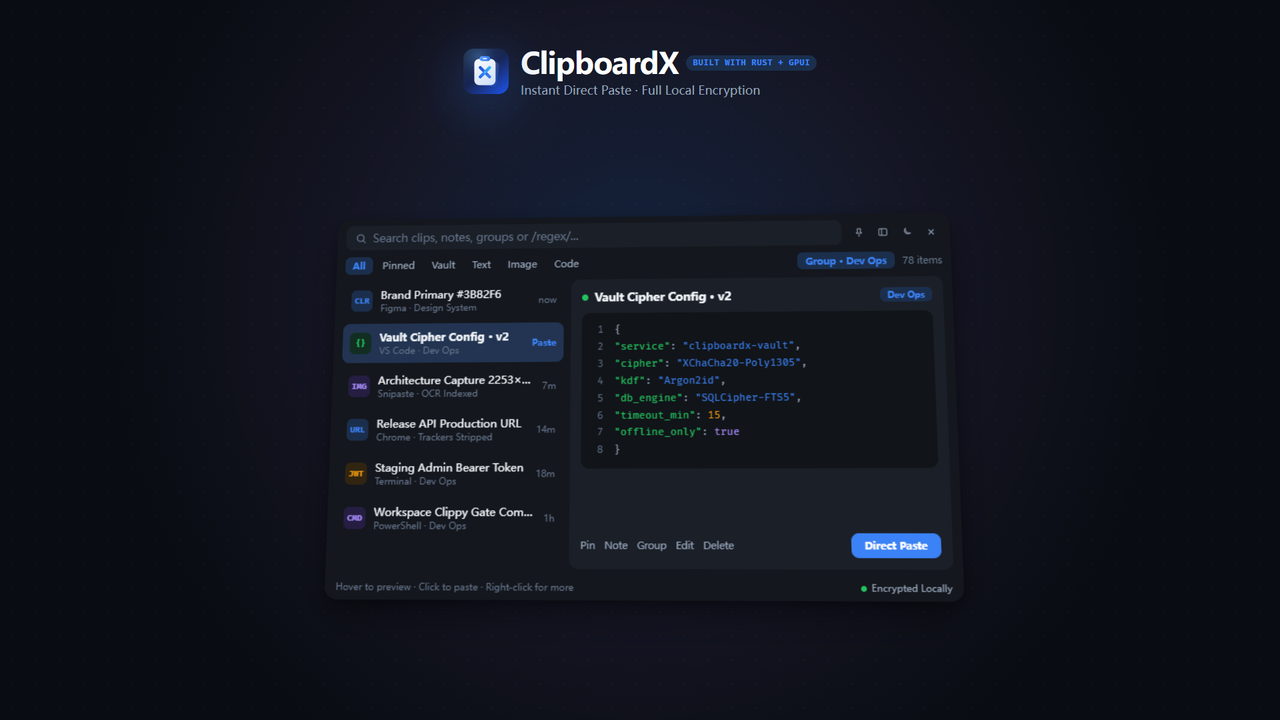
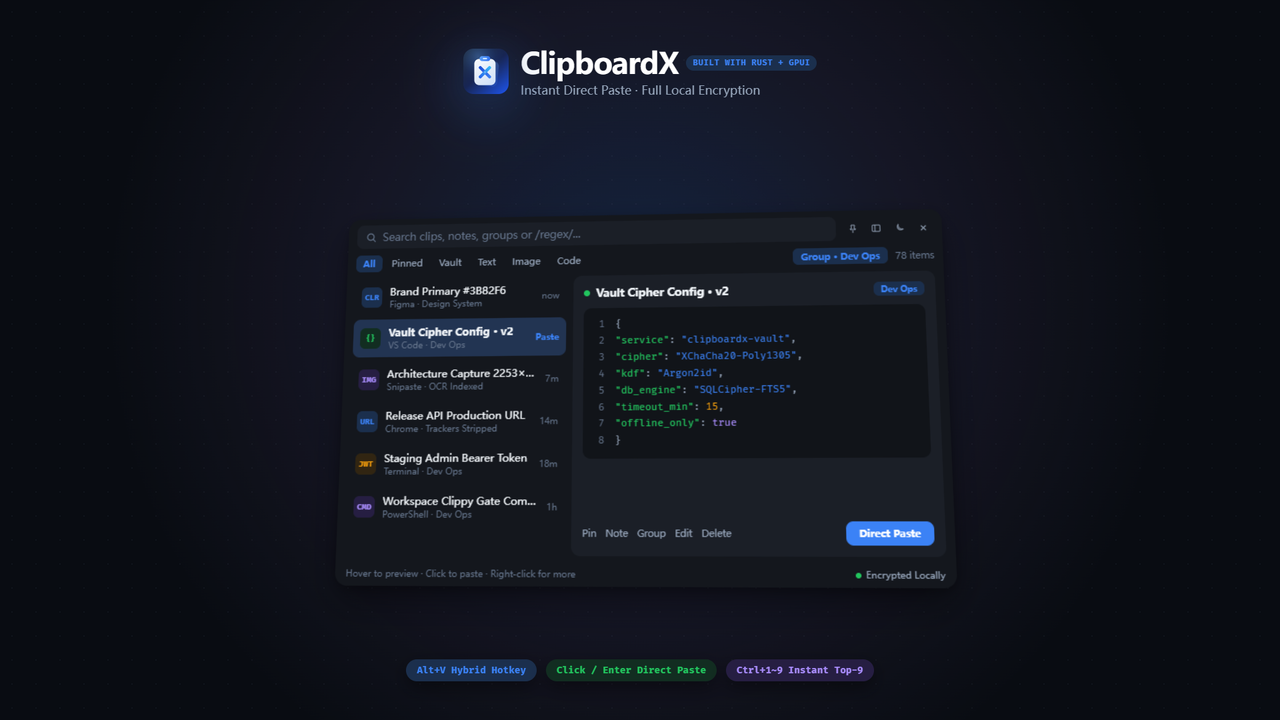
docs(readme): highlight dock-to-capsule workflow, smart hotkeys and refreshed promo reels

diff --git a/README.zh-CN.md b/README.zh-CN.md
@@ -23,6 +23,48 @@
 
 ---
 
+## 为什么用起来顺手？
+
+### 1. 悬浮窗 ↔ 贴边光感玻璃胶囊，招之即来、挥之即收
+- **失焦自动缩成迷你胶囊**：切回编辑器或浏览器继续工作时，悬浮窗默认不会生硬消失，而是柔和收拢为停靠在屏幕边缘的 `38×58` **光感玻璃磨砂胶囊**，不挡视野、随时待命（也可在设置中切换为失焦隐藏到系统托盘）。
+- **新复制流光脉冲反馈**：后台按下 `Ctrl + C` 复制内容时，贴边胶囊会自动泛起一圈柔和的蓝绿流光脉冲，无弹窗打扰却清晰确认“已加密入库”。
+- **悬停预热 + 盲拖吸边**：鼠标靠近胶囊即刻提亮微晕并一键唤回主面板；按住胶囊即可上下盲拖并自动吸附屏幕边缘，想停哪就停哪。
+- **双形态 `180ms` 弹性伸缩**：按下 `Ctrl + \`，面板在 `680×420` 完整双栏预览与 `328×420` 简洁单栏之间丝滑伸缩，并自动记忆你偏好的展开态。
+
+### 2. 智能双模热键 & 无感直贴流
+- **短按常驻 · 长按即看即走（Smart Hybrid，默认）**：
+  - **短按 `< 260ms`**：按一下 `Alt + V`（macOS 为 `Cmd + Shift + V`）呼出面板常驻，适合慢慢翻找、管理分组、看图或提取 OCR 文字。
+  - **长按 `≥ 260ms`**：按住热键呼出 → 选好条目松手即自动粘贴并收起，行云流水零停顿（同样支持切换为纯 Toggle 或纯按住预览模式）。
+- **真·一步直贴原窗口**：鼠标悬停即可在右侧预览全文、代码、色值或图片，**左键单击（或按 `Enter`）** 立即写回剪贴板并自动恢复原焦点窗口完成粘贴，免去“点击复制 → 切窗 → `Ctrl + V`”的三步繁琐。
+- **盲贴前 9 条**：面板呼出后直接按 `Ctrl + 1` ~ `Ctrl + 9`，瞬间把最近第 1~9 条内容直贴到光标处。
+
+### 3. 一行搜索框搞定多维毫秒定位
+- **中文拼音直搜**：无需切输入法，直接输入拼音首字母或全拼（如 `seka`、`mima`、`kaifa`），毫秒级命中中文历史、备注与分组。
+- **结构化前缀与正则**：支持 `type:image`、`type:color`、`type:code`、`app:chrome` 等前缀精准筛选，也支持 `/pattern/` 正则检索代码片段与日志。
+- **截图文字自动可搜**：系统原生离线 OCR（WinRT / Vision）与可选离线插件会自动把截图中的文字写入加密 FTS5 索引，搜图就像搜文字一样快。
+
+### 4. 加密账号保险箱 · 一键连填自动复原
+- **双库物理隔离加密**：普通剪贴历史（`history.db`）与敏感账号凭证（`vault.db`）独立存储，采用 **SQLCipher 全库加密 + 系统密钥环信封加密 + `XChaCha20-Poly1305` Blob 加密**，100% 纯本地零遥测。
+- **一键顺序连填并还原剪贴板**：在账号页按 `Enter`（或点击条目），自动模拟 `账号 → Tab → 密码 → Enter` 顺序填入登录框；完成后自动擦除临时密码并**还原你原本的剪贴板内容**。
+- **主动隐私门禁**：自动忽略系统机密剪贴板标记，内置密码管理器黑名单（默认忽略 `1Password`、`Bitwarden`、`KeePassXC`、`Enpass`、`Keychain Access`），随时按 `Ctrl + Alt + P` 临时暂停监听。
+
+---
+
+## 快捷键速查
+
+| 快捷键 | 作用域 | 功能说明 |
+| :--- | :--- | :--- |
+| `Alt + V`（macOS：`Cmd + Shift + V`） | 全局 | 智能双模呼出 / 收起主面板（短按常驻，长按松手即收） |
+| `Ctrl + \` | 全局 / 面板内 | `180ms` 弹性切换 `680×420` 完整双栏 ↔ `328×420` 简洁单栏 |
+| `Ctrl + Alt + P` | 全局 | 一键暂停 / 恢复剪贴板监听（临时复制敏感内容不入库） |
+| `Enter` / 左键单击 | 面板内 | 直接粘贴到原焦点窗口（保险箱页为**一键连填**） |
+| `Shift + Enter` | 面板内 | 纯文本无格式粘贴（保险箱页为仅填入密码） |
+| `Ctrl + 1` ~ `Ctrl + 9` | 面板内 | 极速直贴列表中第 1 ~ 9 条记录 |
+| `↑` / `↓` | 面板内 | 上下切换选中条目并实时更新右侧预览卡片 |
+| `Esc` | 面板内 | 先清空搜索关键词，再次按下收起面板（回到贴边胶囊或托盘） |
+
+---
+
 ## 界面预览
 
 | 双栏主面板（Night 暗夜） | 光感玻璃停靠胶囊（38×58） |
@@ -36,18 +78,6 @@
 | 图片预览与离线 OCR 文字识别 | 双库加密账号保险箱与一键连填 |
 | :---: | :---: |
 | ![图片与离线 OCR](assets/screenshots/zh-ocr-light.png) | ![账号保险箱与一键连填](assets/screenshots/zh-vault-night.png) |
-
----
-
-## 核心特性
-
-- **零描边色阶美学**：`680×420` 完整双栏与 `328×420` 简洁单栏悬浮窗，`180ms` 弹性侧边收缩，支持 `38×58` 光感玻璃磨砂停靠胶囊与 Night / Light 双模式主题，全界面 `0px` 描边。
-- **全链路本地加密**：普通历史 `history.db` 与账号保险箱 `vault.db` 双库隔离，采用 SQLCipher 全库（含 FTS5）加密、系统密钥环信封加密与 CAS `XChaCha20-Poly1305` Blob 加密。
-- **智能内容解析与预览**：自动识别代码、JSON、JWT、色值（含 WCAG 对比度与 OKLCH）、URL（支持一键去除追踪参数）、时间戳与图片，并提供专属右侧预览卡片。
-- **多维毫秒级检索**：融合 FTS5 全文检索、中文拼音首字母/全拼、模糊匹配、正则（`/pattern/`）及前缀过滤（`type:color`、`type:image`、`app:editor`）。
-- **账号保险箱与一键连填**：独立口令保护的账号凭证库，内置密码强度评估、CSPRNG 强密码生成，以及支持完成后自动擦除并还原原剪贴板的一键连填（`账号 → Tab → 密码 → Enter`）。
-- **离线 OCR 文字识别**：支持系统原生 OCR（WinRT / Vision）与按需下载或本地导入离线插件，自动将截图文字写入加密索引。
-- **零后台遥测**：100% 纯本地运行，仅在手动或开启更新检查时校验 Ed25519 签名清单。
 
 ---
 

diff --git a/README.md b/README.md
@@ -23,6 +23,47 @@ English | [简体中文](README.zh-CN.md)
 
 ---
 
+## Designed for Effortless Daily Flow
+
+### 1. Floating Panel ↔ Liquid Frosted Dock Capsule
+- **Auto-Collapse on Blur**: When you switch back to your editor or browser, the floating panel doesn't abruptly vanish—by default it glides into a `38×58` **liquid frosted glass capsule** docked cleanly to your screen edge (or optionally auto-hides to the system tray).
+- **Subtle Capture Pulse**: Every time you press `Ctrl/Cmd + C` in the background, the edge capsule emits a soft luminous pulse to confirm your clip is encrypted and saved without interrupting your focus.
+- **Hover Preheat & Blind-Drag Snapping**: Hover to glow and pop the panel right back open, or grab and drag the capsule vertically along the screen edge to park it anywhere out of your way.
+- **`180ms` Adaptive Dual / Slim Morph**: Tap `Ctrl + \` to smoothly morph between the `680×420` dual-pane preview and the `328×420` compact single-pane list—with automatic state memory.
+
+### 2. Smart Hybrid Hotkey & Zero-Friction Direct Paste
+- **Tap to Toggle · Hold to Peek (Smart Hybrid, Default)**:
+  - **Tap `< 260ms`**: Press `Alt + V` (`Cmd + Shift + V` on macOS) to keep the panel open while browsing, organizing groups, or inspecting images/OCR.
+  - **Hold `≥ 260ms`**: Hold the hotkey to peek, pick an item, and release to paste & dismiss in one fluid gesture (pure Toggle and pure Hold-to-Peek modes are also available).
+- **One-Click Direct Paste**: Hover to inspect rich previews (code, JSON, JWT, WCAG color swatches, cleaned URLs, images & OCR), then **single-click or press `Enter`** to restore focus to your previous app and paste instantly—no more copy → switch window → `Ctrl + V`.
+- **Instant Top-9 Paste**: Press `Ctrl + 1` through `Ctrl + 9` right after summoning to direct-paste any of your latest 9 clips without touching the mouse.
+
+### 3. Sub-Millisecond Multi-Dimensional Search
+- **All-in-One Search Bar**: Combines SQLite FTS5 full-text search, Chinese Pinyin (initials & full), fuzzy matching, regex (`/pattern/`), and structured prefix filters (`type:color`, `type:image`, `type:code`, `app:chrome`).
+- **Searchable Screenshots via Offline OCR**: Native OS OCR (WinRT / Vision) and optional offline plugins automatically index text inside screenshots directly into your encrypted local database.
+
+### 4. Encrypted Account Vault & Clipboard-Safe Auto-Fill
+- **Dual-Database Local Encryption**: Regular history (`history.db`) and credentials (`vault.db`) live in separate **SQLCipher** databases backed by OS keyring envelope keys and `XChaCha20-Poly1305` CAS blobs—100% offline with zero telemetry.
+- **One-Click Sequential Auto-Fill**: Press `Enter` on any vault credential to auto-type `User → Tab → Password → Enter`, then automatically wipe temporary secrets and **restore your original clipboard**.
+- **Proactive Privacy Gate**: Respects OS confidential clipboard flags, ignores major password managers out of the box (`1Password`, `Bitwarden`, `KeePassXC`, `Enpass`, `Keychain Access`), and lets you pause capture anytime with `Ctrl + Alt + P`.
+
+---
+
+## Keyboard Shortcuts
+
+| Shortcut | Scope | Action |
+| :--- | :--- | :--- |
+| `Alt + V` (`Cmd + Shift + V` on macOS) | Global | Smart Hybrid summon / hide (tap to toggle, hold to peek) |
+| `Ctrl + \` | Global / Panel | `180ms` morph between `680×420` dual-pane and `328×420` compact view |
+| `Ctrl + Alt + P` | Global | Pause / resume clipboard monitoring on the fly |
+| `Enter` / Left-Click | Panel | Direct paste into previous window (**Auto-Fill** in Account Vault) |
+| `Shift + Enter` | Panel | Paste as plain text (or fill password only in Account Vault) |
+| `Ctrl + 1` – `Ctrl + 9` | Panel | Direct-paste item #1 – #9 immediately |
+| `↑` / `↓` | Panel | Navigate history list with live right-pane preview |
+| `Esc` | Panel | Clear search query first, press again to collapse back to capsule/tray |
+
+---
+
 ## Visual Showcase
 
 | Dual-Pane Main Panel (Night) | Liquid Frosted Dock Capsule |
@@ -36,18 +77,6 @@ English | [简体中文](README.zh-CN.md)
 | Image Preview & Offline Native OCR | Encrypted Account Vault & Auto-Fill |
 | :---: | :---: |
 | ![Image Preview and Offline OCR](assets/screenshots/en-ocr-light.png) | ![Encrypted Account Vault and Auto-Fill](assets/screenshots/en-vault-night.png) |
-
----
-
-## Core Features
-
-- **Borderless Tonal UI**: Crisp `680×420` dual-pane and `328×420` compact single-pane floating windows with `180ms` elastic morphing, `38×58` liquid optical glass dock capsule, and Night / Light themes with 0px borders.
-- **Full-Stack Local Encryption**: Dual-database isolation (`history.db` + `vault.db`) powered by SQLCipher (including FTS5), OS keyring envelope encryption, and content-addressed `XChaCha20-Poly1305` blob storage.
-- **Smart Content Inspection**: Automatic recognition and tailored preview cards for code snippets, JSON, JWT tokens, colors (with WCAG contrast & OKLCH), URLs (with tracking-parameter stripping), Unix timestamps, and images.
-- **Sub-Millisecond Multi-Dimensional Search**: Instant filtering across FTS5 full-text search, Chinese Pinyin (initials & full), fuzzy matching, regex (`/pattern/`), and structured prefixes (`type:color`, `type:image`, `app:editor`).
-- **Account Vault & Auto-Fill**: Separate passphrase-protected credential vault with strength meter, CSPRNG password generator, and one-click sequential auto-fill (`User → Tab → Password → Enter`) that safely restores your original clipboard.
-- **Offline OCR**: Native OS OCR (WinRT / Vision) plus optional on-demand or local-archive plugin support that automatically writes extracted screenshot text into the encrypted search index.
-- **Zero Telemetry**: 100% offline execution with optional Ed25519-signed release update verification.
 
 ---
 
